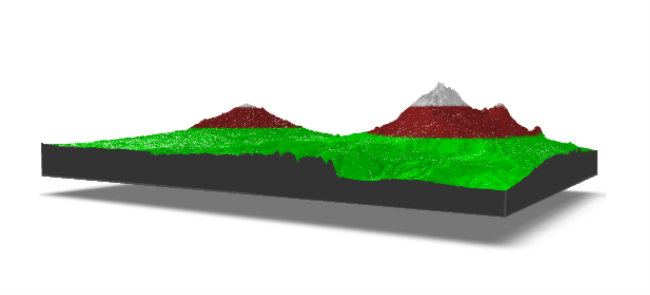
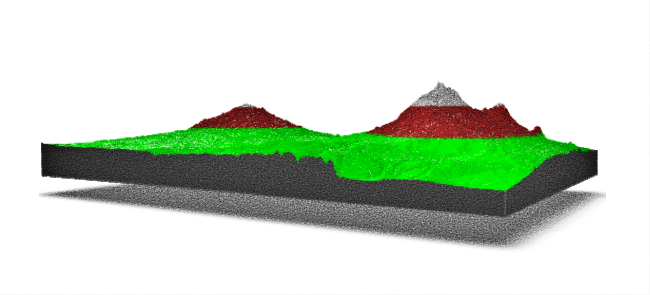
changes

Changed region(s): [[0.0615, 0.2746, 0.9231, 0.8542], [0.0615, 0.4881, 0.1231, 0.6102]]

diff --git a/portfolio.html b/portfolio.html
@@ -395,13 +395,13 @@
     <img src="assets/images/heat-island-map.png" alt="Urban Heat Map – Kisumu City" style="width:100%; border:1px solid #ccc; margin-top:1rem;" loading="lazy">
 <!-- 3D Spatial Modelling Section -->
 <h3>3D Modelling</h3>
-<p>
-  This is a simple 3D representation of terrain to give a visual sense of elevation and spatial arrangement. 
-  While this is an example, I am able to create <strong>custom 3D GIS models on request</strong> to suit any project or area of interest.
-</p>
-
 <!-- 3D Placeholder & iframe container -->
 <div id="threeDContainer" style="text-align:center; margin-bottom:1rem;">
+  <!-- Instruction on top -->
+  <p style="margin-bottom:6px; color: var(--accent); font-weight:600;">
+    Tap the image to load the 3D model
+  </p>
+
   <!-- Placeholder Image -->
   <img 
     id="threeDPlaceholder" 
@@ -410,9 +410,6 @@
     loading="lazy" 
     style="cursor:pointer; border:2px solid var(--accent); border-radius:12px; max-width:100%; height:auto;"
   >
-  <p style="margin-top:6px; color: var(--accent); font-weight:600;">
-    Tap the image to load the 3D model
-  </p>
 </div>
 
 <script>